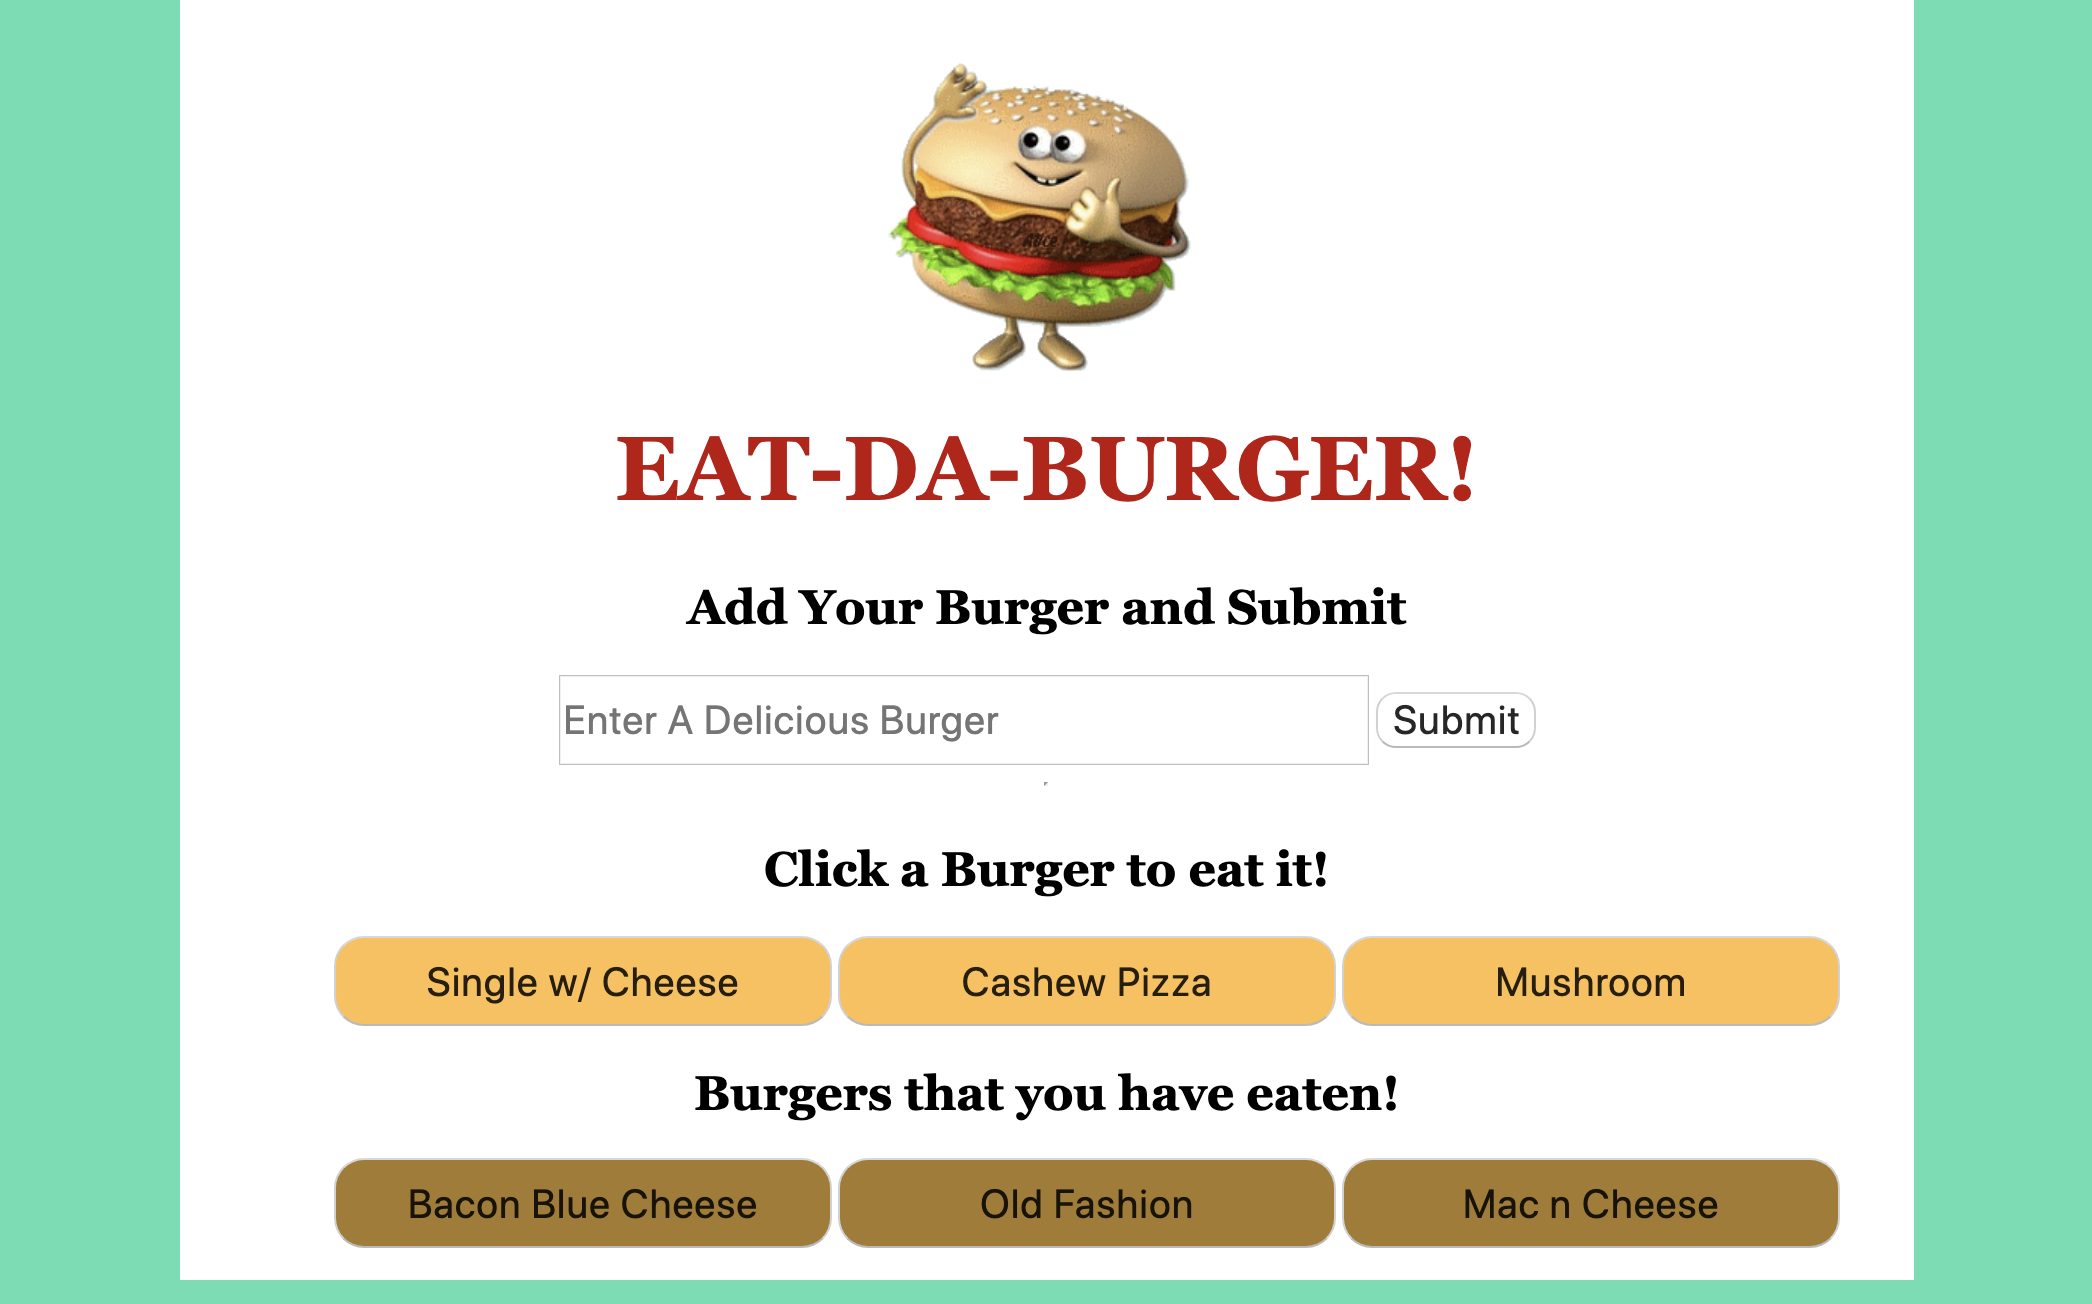
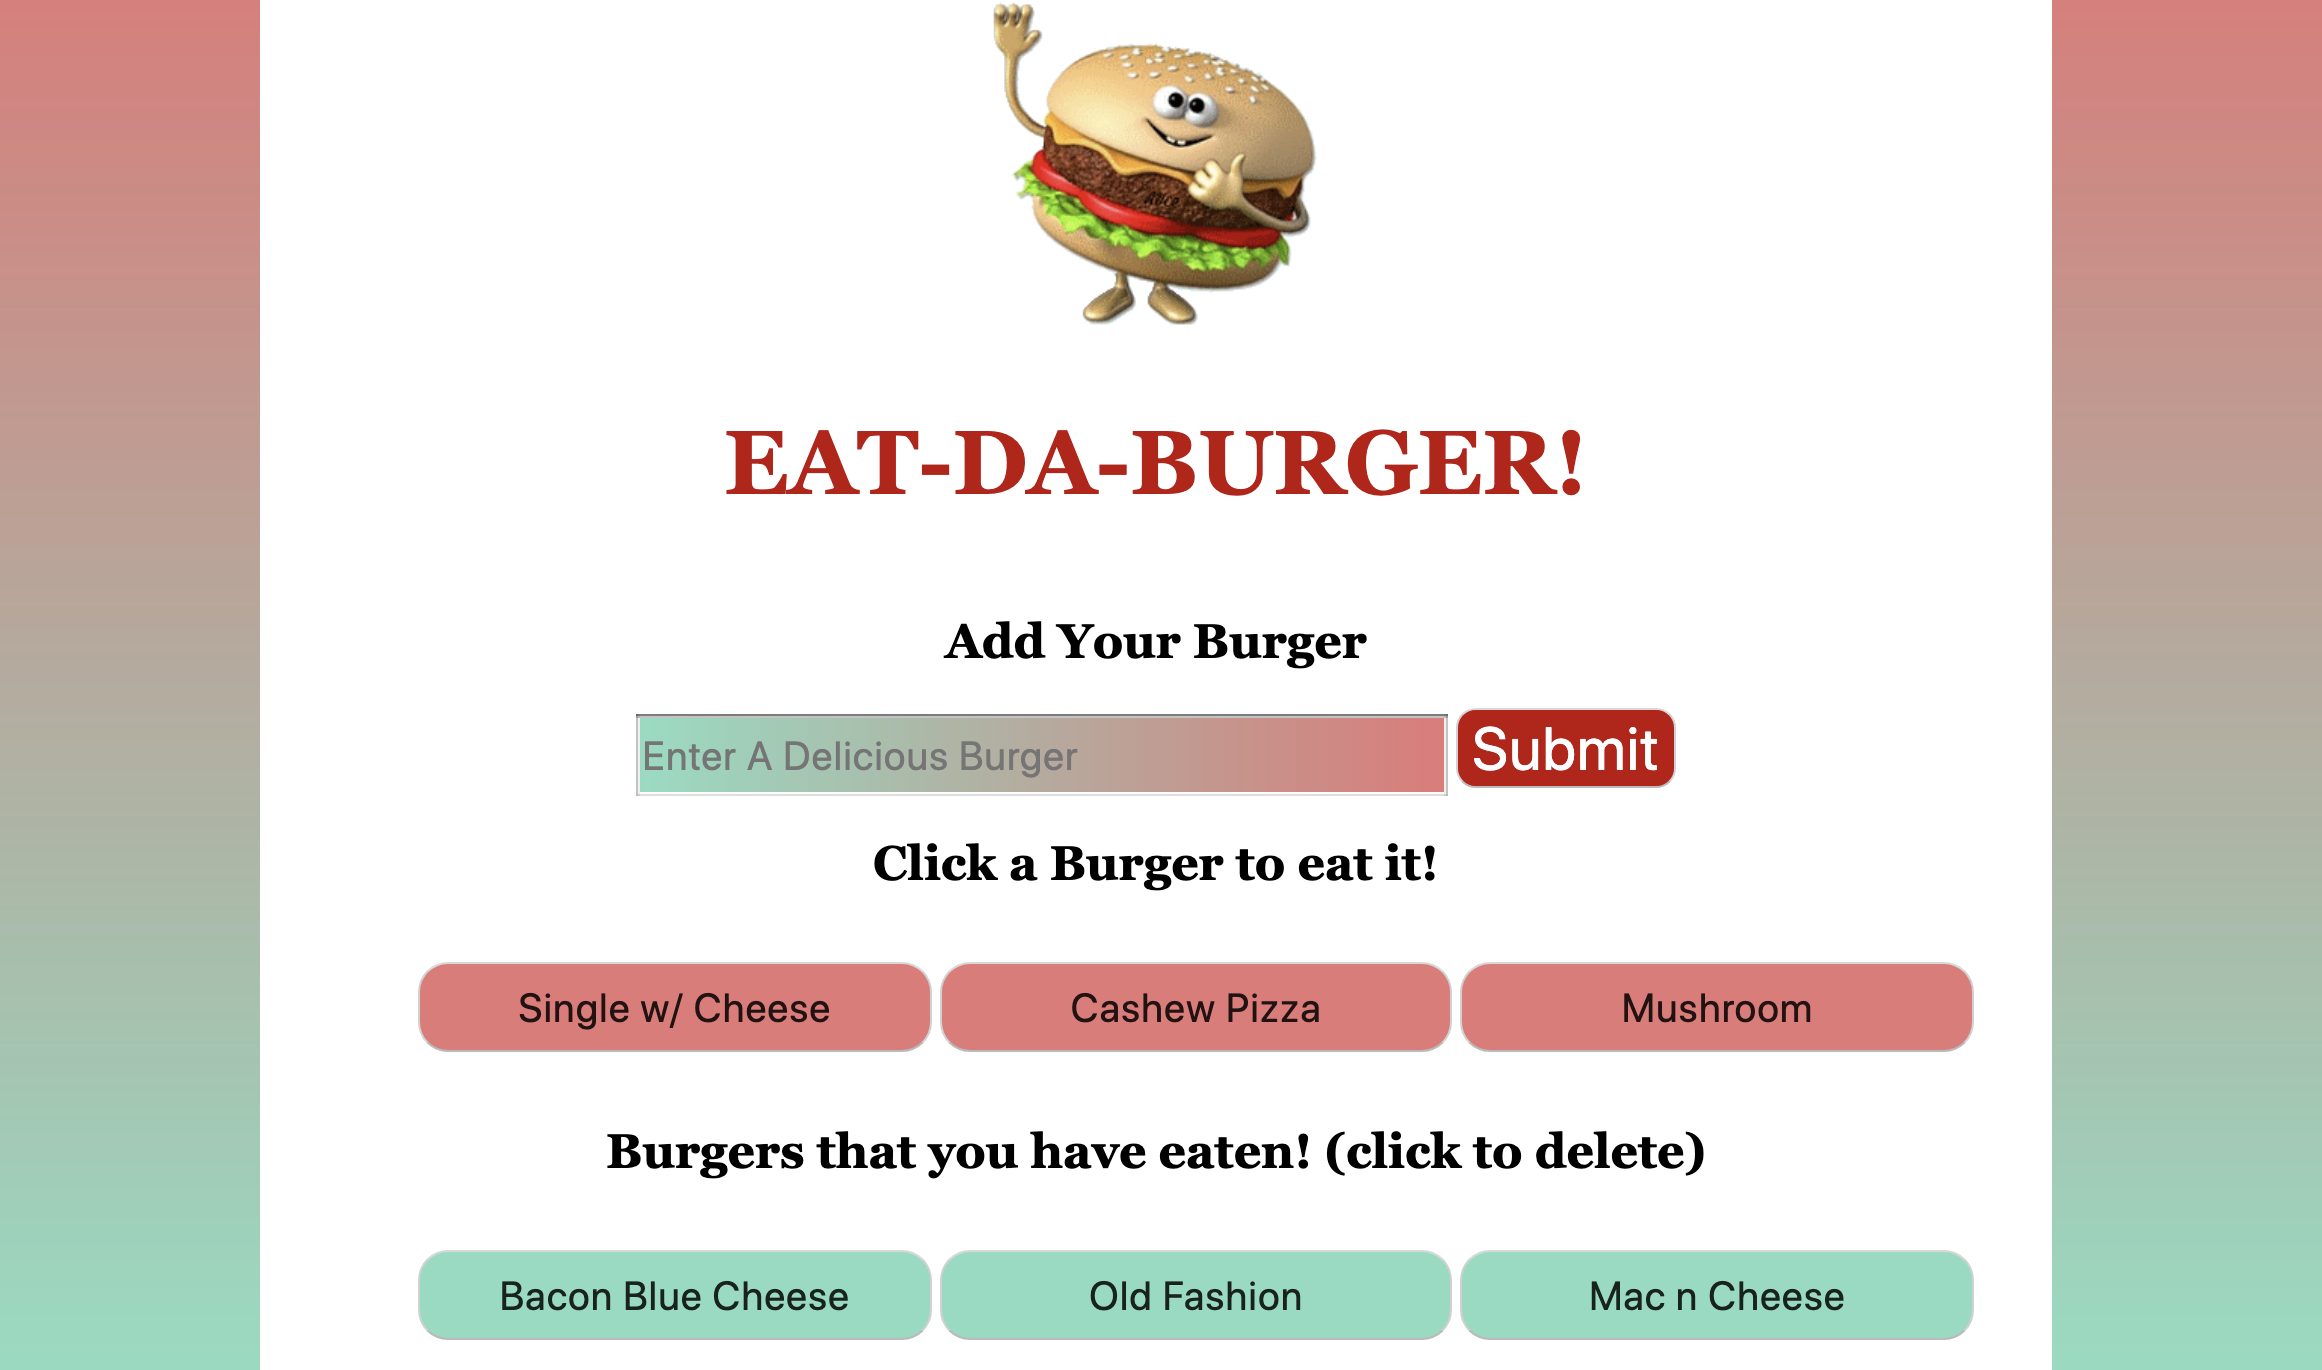
made input required, css styling

diff --git a/public/assets/css/burger_style.css b/public/assets/css/burger_style.css
@@ -1,5 +1,5 @@
 html {
-    background-color: rgb(88, 223, 178);
+    background-image: linear-gradient(to top, rgb(136, 221, 193), rgb(231, 119, 119));
     text-align: center;
     font-family: Georgia, 'Times New Roman', Times, serif;
 
@@ -14,40 +14,38 @@ body {
 }
 h1 {
     text-align: center;
-    /* margin: 40px; */
     font-size: 45px;
     color: rgb(190, 8, 8);
-    /* margin: 10px; */
 }
 .eat-burger {
  	font-size: 20px;
- 	/* text-align: center; */
  	border-radius: 15px;
  	min-width: 30%;
  	padding: 10px;
- 	background-color: #FFC04C;
+ 	background-color: rgb(231, 119, 119);
 
 }
 .devbtn {
     font-size: 20px;
-    /* text-align: center; */
     border-radius: 15px;
     min-width: 30%;
     padding: 10px;
-    background-color: rgba(165, 122, 42, 0.993)
+    background-color: rgb(136, 221, 193)
 
 }
+input:invalid:required {
+    background-image: linear-gradient(to right, rgb(136, 221, 193), rgb(231, 119, 119));
+  }
 #burgername {
     width: 400px;
-    height: 40px;
+    height: 35px;
     font-size: 20px;
 }
 .addBtn {
     border-radius: 10px;
-    font-size: 20px;
+    font-size: 30px;
+    background-color: rgb(190, 8, 8);
+    color: white;
+
   
-}
-.col-sm-6 {
-    width: 50%;
-    display: inline-block;
 }

diff --git a/public/assets/js/burger.js b/public/assets/js/burger.js
@@ -1,5 +1,4 @@
 $(function() {
-
     $(".eat-burger").on("click", function(event) {
          event.preventDefault();
 
@@ -23,8 +22,13 @@ $(function() {
      $(".create-form").on("submit", function(event){
       event.preventDefault();
 
+
+      var str = $("#burgername").val().trim()
+   
+      const chgCase = str.charAt(0).toUpperCase() + str.substring(1);
+      
       var newBurger = {
-        burger_name: $("#burgername").val().trim()
+        burger_name: chgCase
       };
 
       $.ajax("/api/burgers", { 
